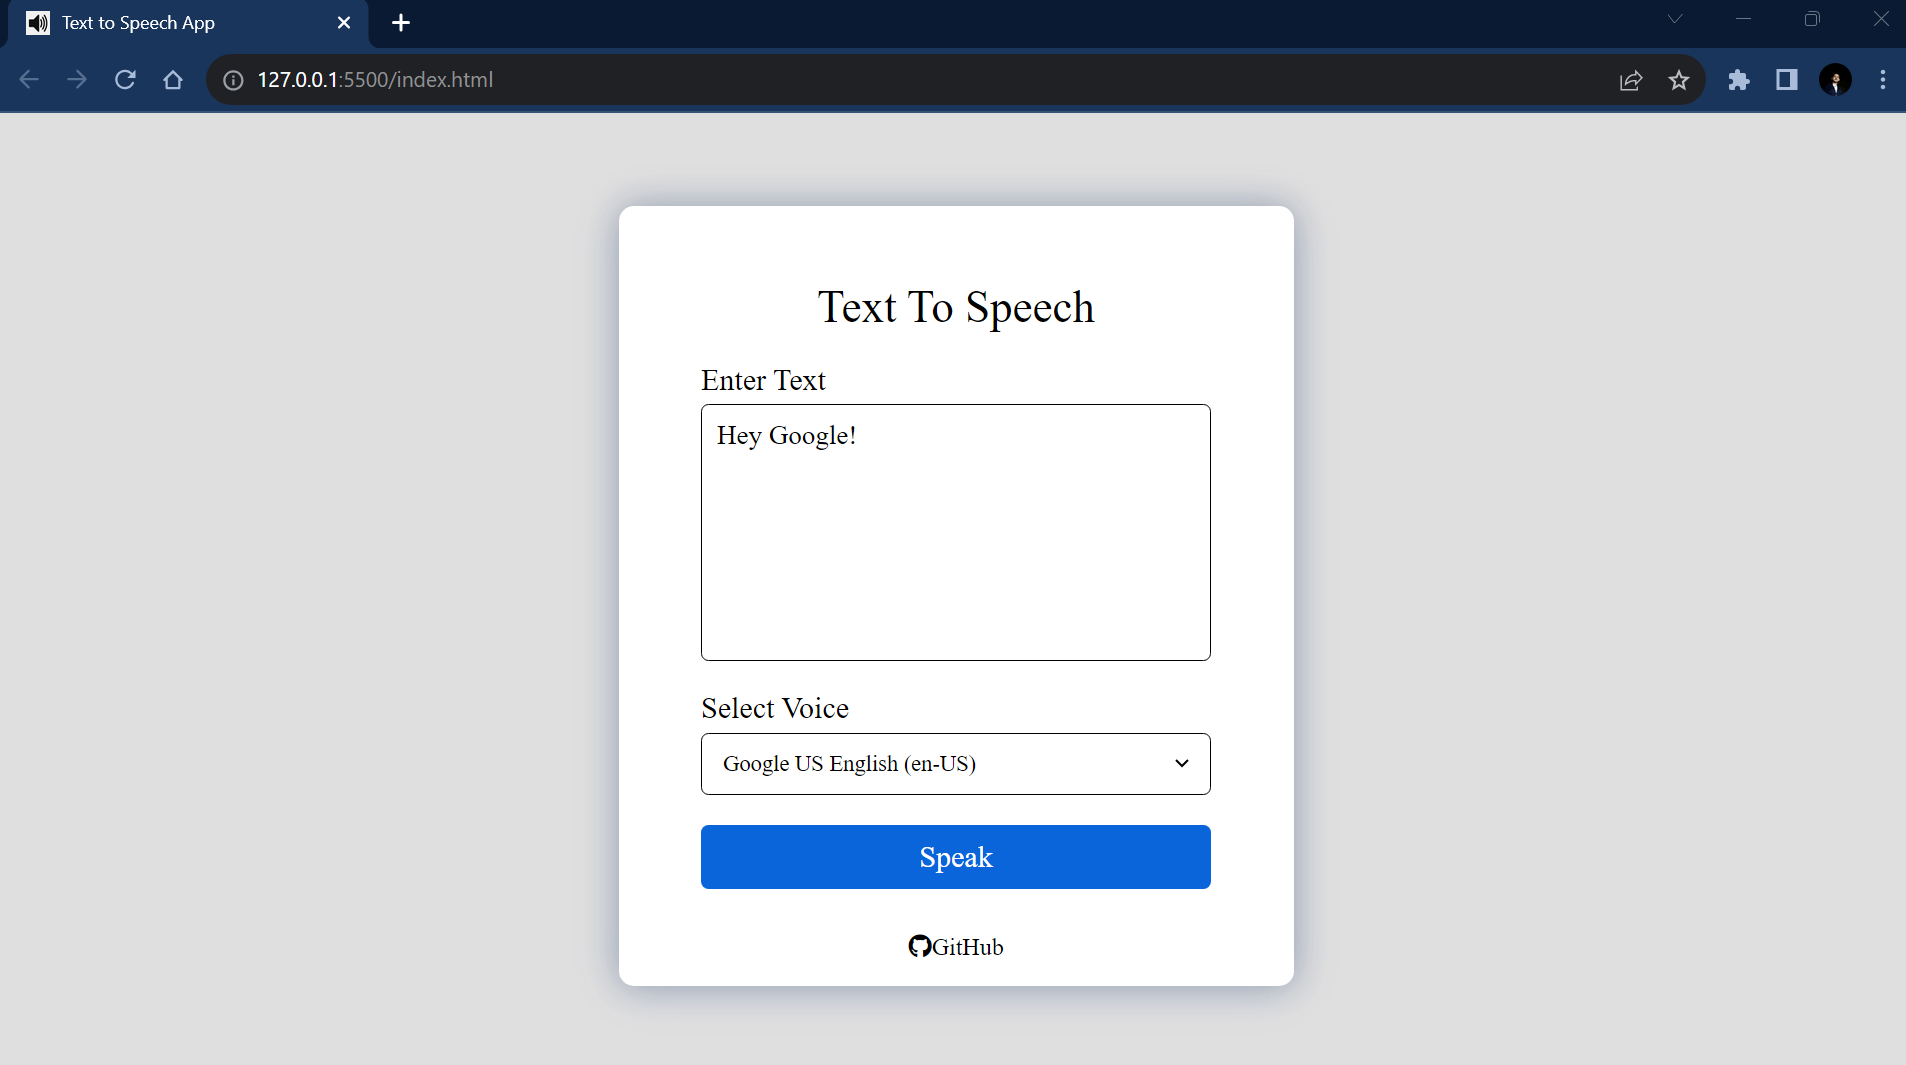
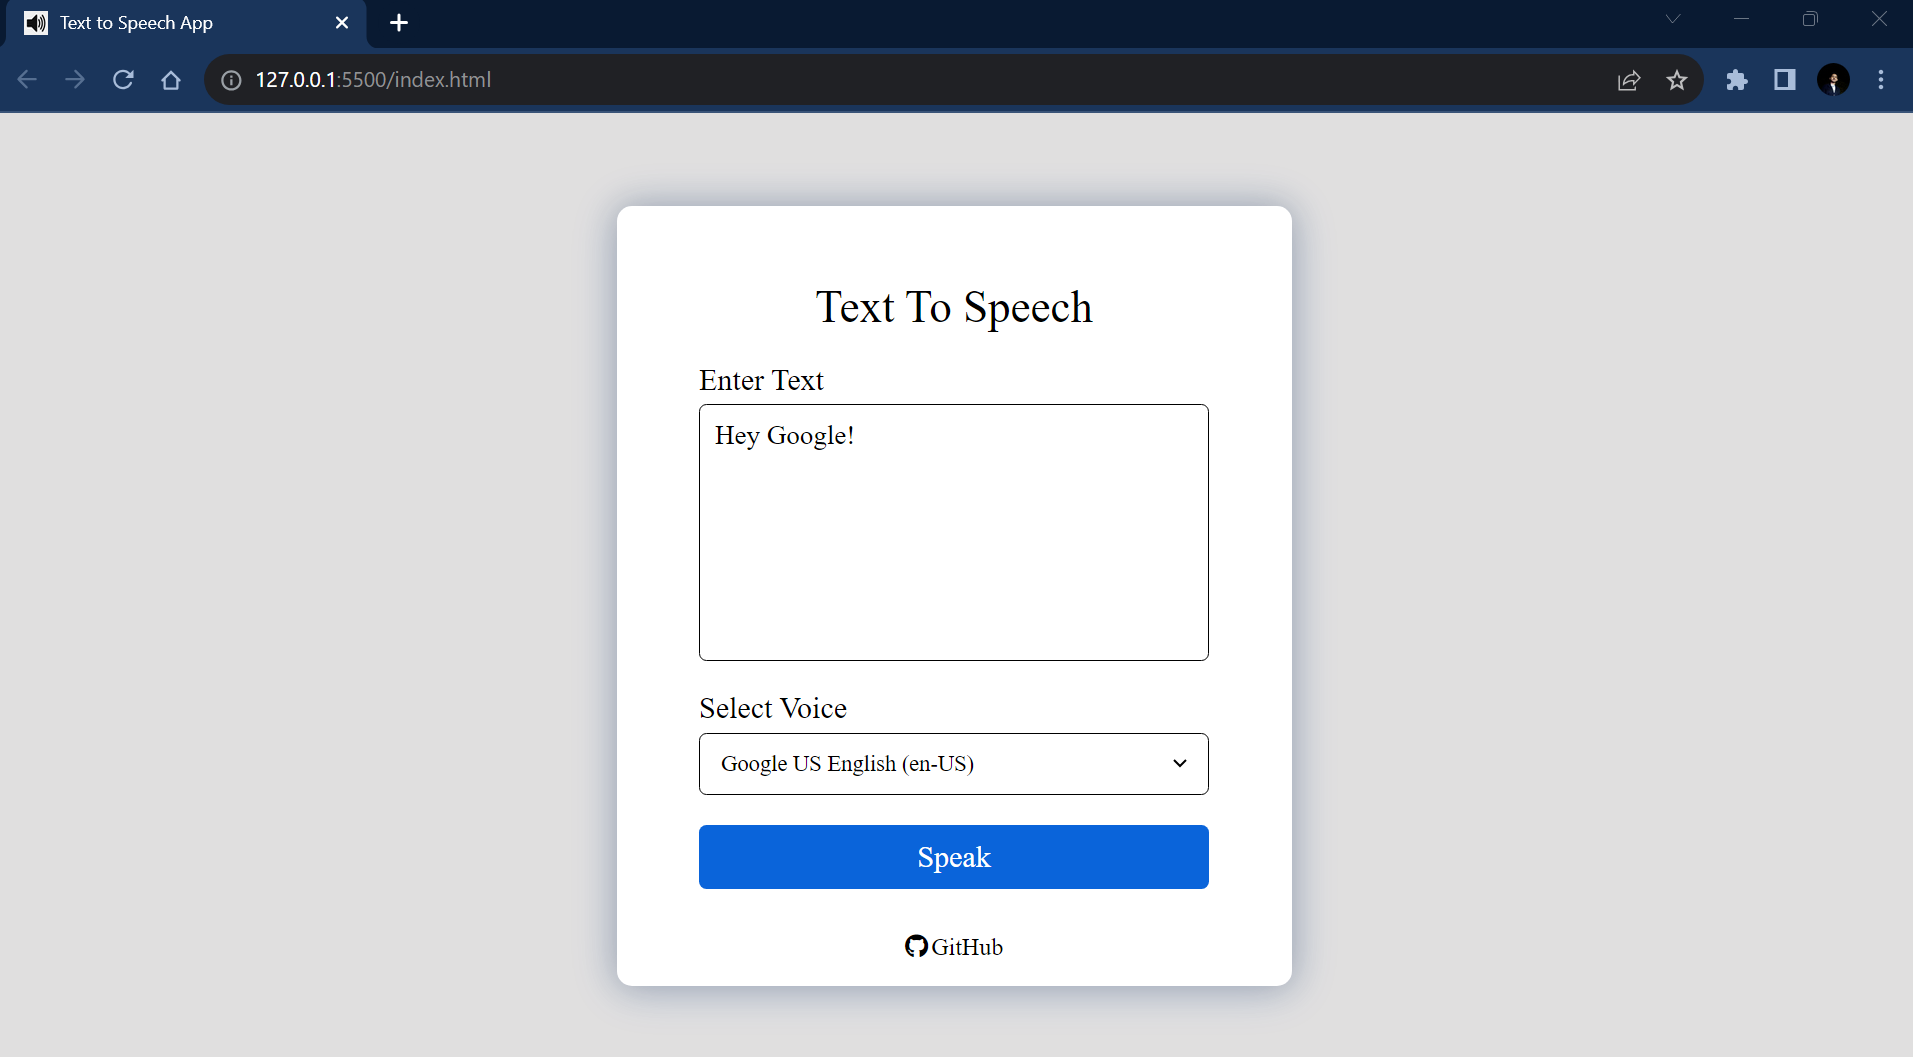
adding some css and change demo img

diff --git a/02-TextToSpeech/css/style.css b/02-TextToSpeech/css/style.css
@@ -117,6 +117,9 @@ body {
     color: black;
     transition: 0.3s ease;
 }
+.form-body .link a i {
+    margin-right: 2px;
+}
 .form-body .link  :hover {
     text-decoration: underline;
 }
